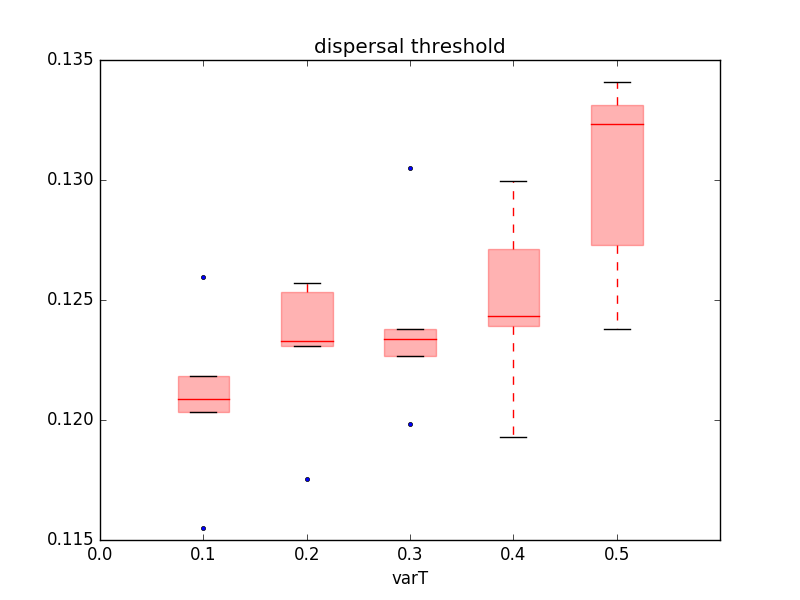
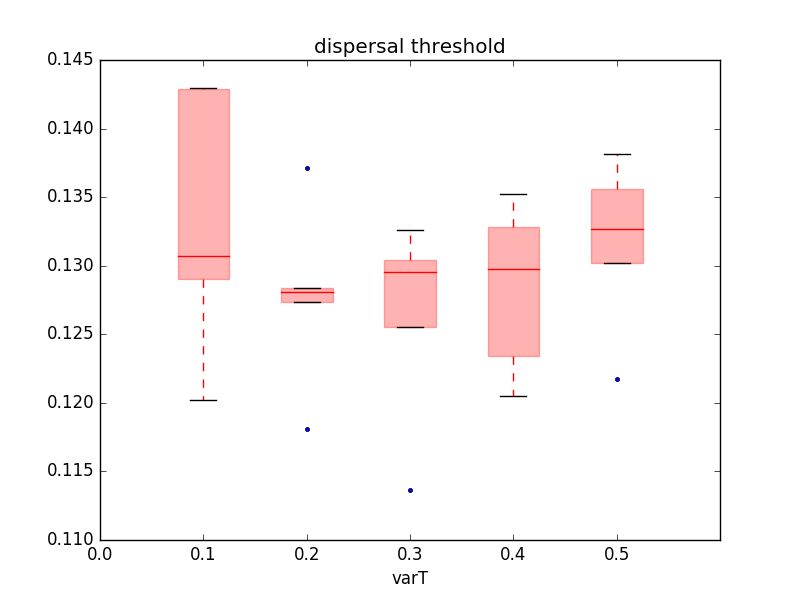
HPCAnalysis complete
Completed adjusting the specific HPC script. Only 3 functions:
LH_dispersal, _varT, _both. Only one replicate of a run per call of the
function with all values for the metric for that replicate saved

diff --git a/HPCAnalysis.py b/HPCAnalysis.py
@@ -1,0 +1,153 @@
+'''
+Created on 13 dec. 2016
+
+@author: fremorti
+'''
+
+
+from Adapt import Metapopulation as Metapopulation
+import numpy as np
+import os
+default_path = os.getcwd()
+
+
+
+def LH_dispersal(disp, rep, cost = 0):
+    '''
+    Generate a run with a set of tested fixed dispersal values and save the life-history data in files
+    '''
+    
+    mutable_threshold = 0
+    mutable_variability = 1
+    meta = run(MAXTIME, dim,R_res,K_res, initialmaxd, initialvarT, initialthreshold, mutable_threshold, mutable_variability, directed, cost)
+    
+    data = np.zeros(8)
+    diversity = [ind.muT for ind in meta.population]
+    nichebr = [ind.varT for ind in meta.population]
+    habitatmatch = [ind.muT-meta.environment[ind.y][ind.x] for ind in meta.population]
+    data[0] = sum(diversity)/len(diversity)
+    data[1] = sum(nichebr)/len(nichebr)
+    data[2] = abs(sum(habitatmatch)/len(habitatmatch))
+    data[3] = len(meta.population)
+    data[4] = meta.disp_prop
+
+    localstddev = [[pow(np.var([size[x][y] for size in meta.localsizes[-5:]]), 0.5) for y in range(dim)] for x in range(dim)]
+    localmean = [[np.mean([size[x][y] for size in meta.localsizes[-5:]]) for y in range(dim)] for x in range(dim)]
+    globalvar = np.var([np.sum(size) for size in meta.localsizes[-5:]])
+    globalmean = np.mean([np.sum(size) for size in meta.localsizes[-5:]])
+    data[5] = pow(np.sum(localstddev)/np.sum(localmean), 2)
+    data[6] = globalvar/pow(globalmean, 2)
+    data[7] = pow(np.sum(localstddev), 2)/globalvar
+            
+    
+    
+    
+    if not os.path.exists(default_path + '/data/dispersal/'+ str(directed) +'/' + str(disp)):
+        os.makedirs(default_path + '/data/dispersal/'+ str(directed) +'/' + str(disp))
+    np.save(default_path + '/data/dispersal/'+ str(directed) +'/' + str(disp) + '/rep'+ str(rep), data)
+
+      
+    
+def LH_varT(var, rep, cost = 0):
+    '''
+    Generate a run with a set of tested niche widths and save the life-history data in files
+    '''
+    mutable_threshold = 1
+    mutable_variability = 0
+
+    
+    data = np.zeros(8)
+
+    meta = run(MAXTIME, dim,R_res,K_res, initialmaxd, initialvarT, initialthreshold, mutable_threshold, mutable_variability, directed, cost)
+    diversity = [ind.muT for ind in meta.population]
+    thresholds = [ind.threshold for ind in meta.population]
+    habitatmatch = [ind.muT-meta.environment[ind.y][ind.x] for ind in meta.population]
+
+    data[0] = sum(diversity)/len(diversity)
+    data[1] = sum(thresholds)/len(thresholds)
+    data[2] = abs(sum(habitatmatch)/len(habitatmatch))
+    data[3] = len(meta.population)
+    data[4] = meta.disp_prop
+    
+    localstddev = [[pow(np.var([size[x][y] for size in meta.localsizes[-5:]]), 0.5) for y in range(dim)] for x in range(dim)]
+    localmean = [[np.mean([size[x][y] for size in meta.localsizes[-5:]]) for y in range(dim)] for x in range(dim)]
+    globalvar = np.var([np.sum(size) for size in meta.localsizes[-5:]])
+    globalmean = np.mean([np.sum(size) for size in meta.localsizes[-5:]])
+    data[5] = pow(np.sum(localstddev)/np.sum(localmean), 2)
+    data[6] = globalvar/pow(globalmean, 2)
+    data[7] = pow(np.sum(localstddev), 2)/globalvar
+    
+    if not os.path.exists(default_path + '/data/varT/'+ str(directed) +'/' + str(var)):
+        os.makedirs(default_path + '/data/varT/'+ str(directed) +'/' + str(var))
+    np.save(default_path + '/data/varT/'+ str(directed) +'/' + str(var) + '/rep'+ str(rep), data)
+       
+
+
+def run(MAXTIME, dim,R_res,K_res, initialmaxd, initialvarT, initialthreshold, mutable_dispersal, mutable_variability, directed, cost):
+    '''
+    helper function that initiates a metapopulation and let it evolve for a given amount of generations
+    dispersal and niche width are either evolvable or not, with initial values passed (important for fixed traits), dispersal is directed or not
+    '''
+    
+    meta = Metapopulation(dim,dim,R_res,K_res, initialmaxd, initialvarT, initialthreshold, mutable_dispersal, mutable_variability, directed, cost)
+    
+    meta.loadlandscape()
+    
+    for timer in range(MAXTIME):
+        print('generation ',timer)
+    
+        meta.lifecycle()
+        print ("popsize: {}\n".format(len(meta.population)))
+    return(meta)
+    
+    
+def LH_both(directed, rep, cost = 0):
+    '''
+    evolved values of metapopulation and life history parameters regressed for varT
+    '''    
+    mutable_threshold, mutable_variability = 1, 1
+    data = np.zeros(9)
+    meta = run(MAXTIME, dim,R_res,K_res, initialmaxd, initialvarT, initialthreshold, mutable_threshold, mutable_variability,directed, cost)
+    diversity = [ind.muT for ind in meta.population]
+    thresholds = [ind.threshold for ind in meta.population]
+    nichebr = [ind.varT for ind in meta.population]
+    habitatmatch = [ind.muT-meta.environment[ind.y][ind.x] for ind in meta.population]
+    data[0] = sum(diversity)/len(diversity)
+    data[1] = sum(thresholds)/len(thresholds)
+    data[2] = sum(nichebr)/len(nichebr)
+    data[3] = abs(sum(habitatmatch)/len(habitatmatch))
+    data[4] = len(meta.population)
+    data[5] = meta.disp_prop
+    
+    localstddev = [[pow(np.var([size[x][y] for size in meta.localsizes[-5:]]), 0.5) for y in range(dim)] for x in range(dim)]
+    localmean = [[np.mean([size[x][y] for size in meta.localsizes[-5:]]) for y in range(dim)] for x in range(dim)]
+    globalvar = np.var([np.sum(size) for size in meta.localsizes[-5:]])
+    globalmean = np.mean([np.sum(size) for size in meta.localsizes[-5:]])
+    data[6] = pow(np.sum(localstddev)/np.sum(localmean), 2)
+    data[7] = globalvar/pow(globalmean, 2)
+    data[8] = pow(np.sum(localstddev), 2)/globalvar
+        
+    if not os.path.exists(default_path + '/data/both/' + str(directed)):
+        os.makedirs(default_path + '/data/both/' + str(directed))
+    np.save(default_path + '/data/both/' + str(directed) + '/' + str(rep), data)
+        
+    
+    
+'''
+Default PARAMETERS
+'''
+
+MAXTIME=50  #50
+dim = 32
+R_res = 0.25
+K_res = 1  
+initialmaxd = 2
+initialvarT = 0.05
+initialthreshold = 0.1
+directed = 0
+cost = 0 #cost of directed dispersal
+
+
+#LHcostplots(start, end, step, atype, directed, costs)
+LH_both(directed, 0, cost)
+#LHcombinedplot(np.arange(start, end+step, step), 'dispersal', step/2)

diff --git a/Analysis.py b/Analysis.py
@@ -461,8 +461,8 @@ def LHcostplots(start, end, step, atype, directed, costs):
     #cols = ['b', 'r', 'g', 'coral', 'darkmagenta', 'steelblue', 'brown']
     xs = np.arange(start, end+step, step)
     
-    if not os.path.exists(default_path + "/plots/cost/LH_"+ atype + str(directed) +'/' + str(cost)):
-        os.makedirs(default_path + "/plots/cost/LH_"+ atype + str(directed) +'/' + str(cost))
+    if not os.path.exists(default_path + "/plots/cost/LH_"+ atype + str(directed)):
+        os.makedirs(default_path + "/plots/cost/LH_"+ atype + str(directed))
     def plot(y, title, ylab=''):
         pl0 = plt.plot(xs, np.transpose(y))
         plt.title(title)
@@ -470,7 +470,7 @@ def LHcostplots(start, end, step, atype, directed, costs):
         axes = plt.gca() 
         axes.set_xlim([0,end + step])
         plt.ylabel(ylab)
-        plt.savefig( default_path + "/plots/cost/LH_"+ atype + str(directed) +'/' + str(cost) + "/{}".format(title))
+        plt.savefig( default_path + "/plots/cost/LH_"+ atype + str(directed) + "/{}".format(title))
         plt.clf()
     
     plot(alpha, 'local population variability', 'alpha variability')
@@ -497,7 +497,7 @@ Default PARAMETERS
 '''
 
 MAXTIME=10  #50
-dim = 8
+dim = 32
 R_res = 0.25
 K_res = 1  
 initialmaxd = 2
@@ -514,5 +514,5 @@ atype = 'dispersal'
 
 
 #LHcostplots(start, end, step, atype, directed, costs)
-LH_cost(iters, start, end, step, LH_varT, costs, directed)
+LH_dispersal(iters, start, end, step, cost)
 #LHcombinedplot(np.arange(start, end+step, step), 'dispersal', step/2)
